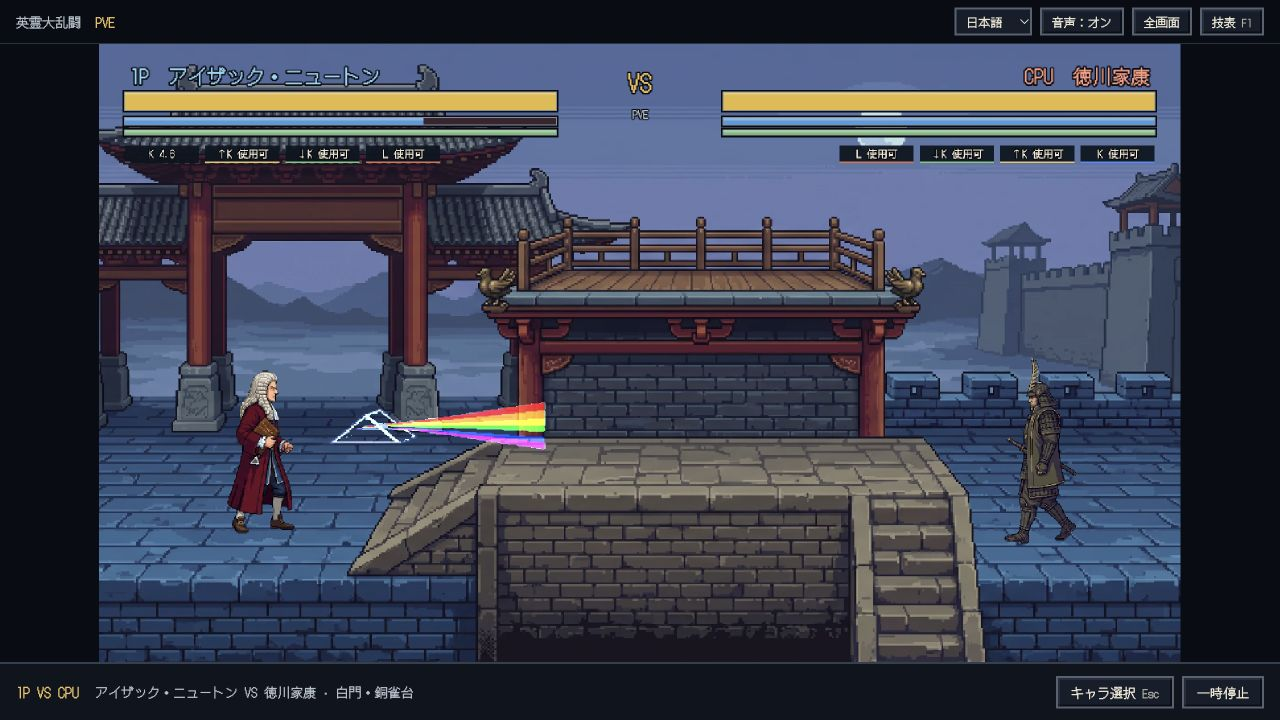
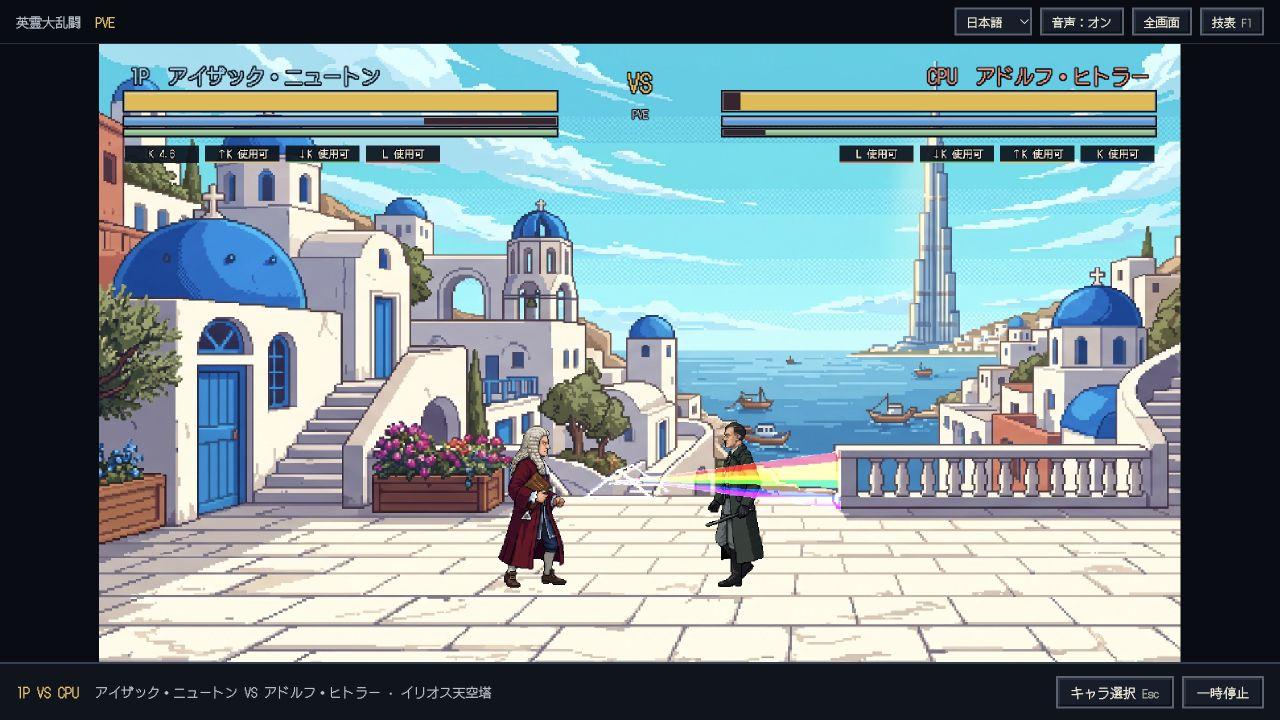
Refresh localized README galleries with featured fighters and arenas

diff --git a/README.md b/README.md
@@ -16,31 +16,35 @@ Real gameplay, captured with the English interface and English super-move effect
 
 **Classic arcade selection:** pick both fighters, preview the stage and choose the CPU difficulty.
 
-![English character selection: Lu Bu versus Tokugawa Ieyasu, fighter roster, stage preview and CPU difficulty](docs/media/en/character-select.jpg)
+![English character selection: Stephen Hawking versus Isaac Newton at Ilios Sky Tower, fighter roster and CPU difficulty](docs/media/en/character-select.jpg)
 
 ### Skills · K
 
-| Lu Bu · Halberd Throw | Newton · Spectrum Beam |
-| --- | --- |
-| ![English gameplay: Lu Bu launches a flaming halberd across Bronze Sparrow Terrace](docs/media/en/halberd-skill.jpg) | ![English gameplay: Isaac Newton fires a rainbow spectrum beam through a prism](docs/media/en/prism-skill.jpg) |
+**Isaac Newton · Spectrum Beam — Ilios Sky Tower**
+
+![English gameplay: Isaac Newton fires a rainbow spectrum beam through a prism at Adolf Hitler on Ilios Sky Tower](docs/media/en/prism-skill.jpg)
 
 ### Supers · L
 
 Giant, staggered lettering sweeps across the fighter and arena. These super cut-ins are shown at full width.
 
-**Lu Bu · Red Hare Rampage**
-
-![English super cut-in: mounted Lu Bu with SUPER and Red Hare / RAMPAGE lettering with oversized lead characters and staggered angles](docs/media/en/red-hare-super.jpg)
-
 **Hawking · Singularity**
 
-![English super cut-in: Stephen Hawking, a black hole, and SUPER and SINGULARITY lettering with oversized lead characters and staggered angles](docs/media/en/singularity-super.jpg)
+![English super cut-in: Stephen Hawking and a black hole at Ilios Sky Tower, with oversized angled SUPER and SINGULARITY lettering](docs/media/en/singularity-super.jpg)
+
+**Adolf Hitler · Iron Cross**
+
+![English super cut-in: Adolf Hitler at Atlantis Capitol, with oversized angled SUPER and Iron CROSS lettering](docs/media/en/iron-cross-super.jpg)
+
+**Pol Pot · Year Zero**
+
+![English super cut-in: Pol Pot at Liberty Peak, with oversized angled SUPER and Year ZERO lettering](docs/media/en/year-zero-super.jpg)
 
 ### Pixel-art arenas
 
-| Bronze Sparrow Terrace | Lunar Station |
-| --- | --- |
-| ![English PVE combat: Lu Bu versus Tokugawa Ieyasu, layered platforms and health, energy, stamina and cooldown HUD](docs/media/en/bronze-sparrow-combat.jpg) | ![English PVE combat: Stephen Hawking versus Isaac Newton in a lunar station overlooking Earth](docs/media/en/lunar-arena.jpg) |
+| Ilios Sky Tower | Atlantis Capitol | Liberty Peak |
+| --- | --- | --- |
+| ![English PVE combat: Hawking versus Newton among blue domes, white terraces and a seaside skyscraper](docs/media/en/ilios-arena.jpg) | ![English PVE combat: Adolf Hitler versus Newton among underwater presidential sculptures and sunken platforms](docs/media/en/atlantis-arena.jpg) | ![English PVE combat: Pol Pot versus Hawking on snowy temple platforms beside the Statue of Liberty](docs/media/en/liberty-arena.jpg) |
 
 ## Run locally (optional)
 

diff --git a/README.zh-CN.md b/README.zh-CN.md
@@ -16,31 +16,35 @@
 
 **经典街机选人：** 选择双方英灵、预览战场，并在开战前设置 CPU 难度。
 
-![中文街机选人界面：吕布对德川家康，展示英灵头像、战场预览与三档 CPU 难度](docs/media/zh-CN/character-select.jpg)
+![中文街机选人界面：霍金对牛顿，展示英灵头像、伊利奥斯天塔预览与三档 CPU 难度](docs/media/zh-CN/character-select.jpg)
 
 ### 小技能 · K
 
-| 吕布 · 掷戟贯穿 | 牛顿 · 光谱射线 |
-| --- | --- |
-| ![中文实战：吕布向白门雀台前方掷出带火焰特效的方天画戟](docs/media/zh-CN/halberd-skill.jpg) | ![中文实战：牛顿通过三棱镜向前释放七彩光谱射线](docs/media/zh-CN/prism-skill.jpg) |
+**牛顿 · 光谱射线 — 伊利奥斯天塔**
+
+![中文实战：牛顿在伊利奥斯天塔通过三棱镜向希特勒释放七彩光谱射线](docs/media/zh-CN/prism-skill.jpg)
 
 ### 奥义 · L
 
 巨幅字效斜向贯穿人物与战场，奥义截图采用整宽展示。
 
-**吕布 · 赤兔战争践踏**
-
-![中文奥义演出：骑乘赤兔的吕布，配有奥义与赤兔战争践踏字效，关键字放大、错落斜排](docs/media/zh-CN/red-hare-super.jpg)
-
 **霍金 · 奇点演说**
 
-![中文奥义演出：霍金与黑洞，配有奥义与奇点演说字效，关键字放大、错落斜排](docs/media/zh-CN/singularity-super.jpg)
+![中文奥义演出：伊利奥斯天塔上的霍金与黑洞，配有放大、错落斜排的奥义与奇点演说字效](docs/media/zh-CN/singularity-super.jpg)
+
+**希特勒 · 铁十字之辉**
+
+![中文奥义演出：亚特兰蒂斯总统山上的希特勒，配有放大、错落斜排的奥义与铁十字之辉字效](docs/media/zh-CN/iron-cross-super.jpg)
+
+**波尔布特 · 去城市化**
+
+![中文奥义演出：自由之巅上的波尔布特，配有放大、错落斜排的奥义与去城市化字效](docs/media/zh-CN/year-zero-super.jpg)
 
 ### 像素战场
 
-| 白门雀台 | 月球空间站 |
-| --- | --- |
-| ![中文 PVE 对战：吕布对德川家康，展示分层平台、生命、能量、体力与技能冷却](docs/media/zh-CN/bronze-sparrow-combat.jpg) | ![中文 PVE 对战：霍金与牛顿在月球空间站交手，窗外为地球](docs/media/zh-CN/lunar-arena.jpg) |
+| 伊利奥斯天塔 | 亚特兰蒂斯总统山 | 自由之巅 |
+| --- | --- | --- |
+| ![中文 PVE 对战：霍金对牛顿，蓝顶白墙、海滨露台与远方天塔](docs/media/zh-CN/ilios-arena.jpg) | ![中文 PVE 对战：希特勒对牛顿，海底总统雕像、沉没平台与珊瑚](docs/media/zh-CN/atlantis-arena.jpg) | ![中文 PVE 对战：波尔布特对霍金，雪山神庙、悬空金顶与自由女神像](docs/media/zh-CN/liberty-arena.jpg) |
 
 ## 本地运行（可选）
 
